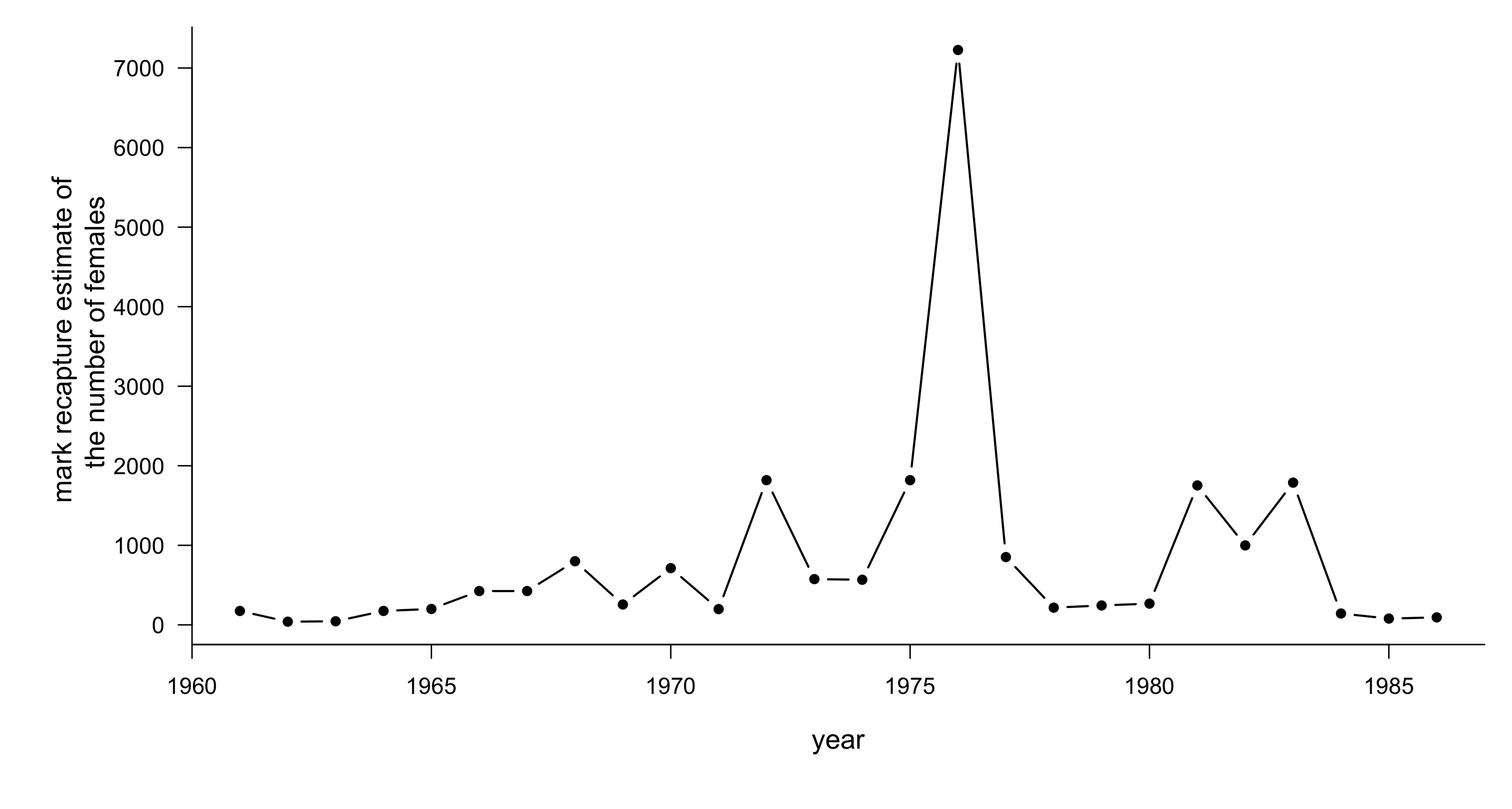
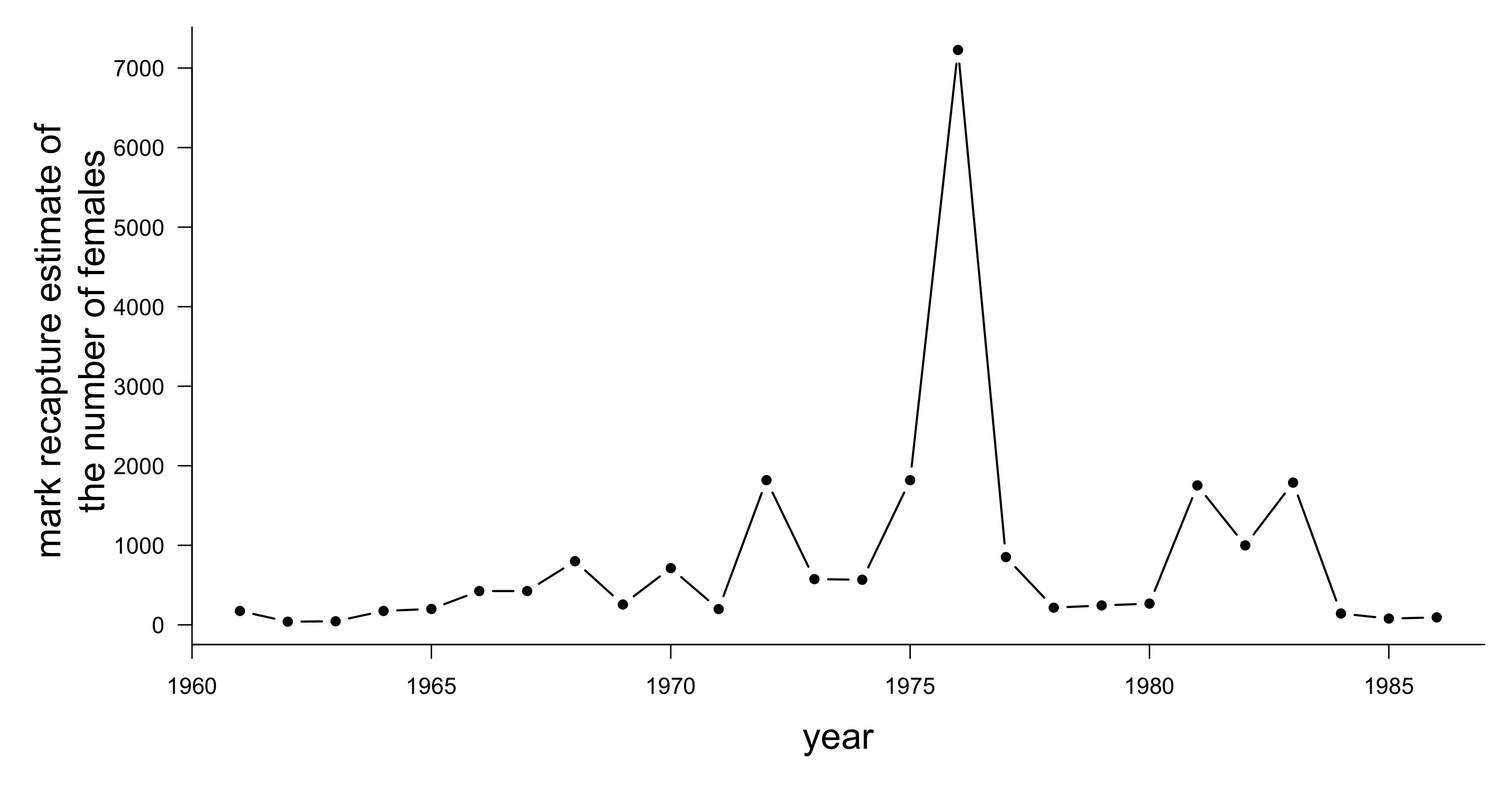
recompile

Changed region(s): [[0.0311, 0.1553, 0.0934, 0.6522], [0.5295, 0.9006, 0.5918, 0.9317]]

diff --git a/teach/BIOL652.html b/teach/BIOL652.html
@@ -1614,15 +1614,24 @@ rates</figcaption>
 Model selection with the Bay Checkerspot data</h4>
 <p>Let’s use some data from Harrison’s (1991) famous paper testing
 whether there were multiple populations or a single population of the
-Bay Checkerspot butterfly. In order to test her hypotheses, Dr. Harrison
-used 20 years of mark recapture data that was used to estimate the
-number of female butterflies in each year.</p>
-<p><img src="baycheckertime.jpeg" style="width:50.0%"
+Bay Checkerspot butterfly.</p>
+<figure>
+<img src="630px-Bay_Checkerspot_f2.jpg" style="width:50.0%"
+alt="Wikipedia Commons CC BY-SA 3.0" />
+<figcaption aria-hidden="true">Wikipedia Commons <a
+href="https://creativecommons.org/licenses/by-sa/3.0/">CC BY-SA
+3.0</a></figcaption>
+</figure>
+<p>In order to test her hypotheses, Dr. Harrison used 20 years of mark
+recapture data that was used to estimate the number of female
+butterflies in each year.</p>
+<figure>
+<img src="baycheckertime.jpeg"
 alt="Estimated number of female Bay Checkerspot butterflies from mark recapture data (data from Harrison at al. 1991)" />
-<img src="630px-Bay_Checkerspot_f2.jpg" style="width:30.0%"
-alt="Wikipedia Commons CC BY-SA 3.0" /></p>
-<p>Figure (side by side figs not showing captions?): Data from Harrison
-(1991). Image Wikipedia Commons (CC BY-SA 3.0)</p>
+<figcaption aria-hidden="true">Estimated number of female Bay
+Checkerspot butterflies from mark recapture data (data from Harrison at
+al. 1991)</figcaption>
+</figure>
 <p>We can use this data to calculate the annual population growth rate
 <span class="math inline">\(\lambda\)</span> as <span
 class="math inline">\(N_{t+1}/N_{t}\)</span>. If we use least squares
@@ -1737,9 +1746,10 @@ our model is simply the normal distribution. We assume independent
 observations, so likelihood is the product of their individual
 probabilities as given by the probability density function.</p>
 <div class="sourceCode" id="cb21"><pre class="sourceCode r"><code class="sourceCode r"><span id="cb21-1"><a href="#cb21-1" aria-hidden="true" tabindex="-1"></a>X <span class="ot">=</span> <span class="fu">c</span>(<span class="dv">0</span>,<span class="dv">4</span>,<span class="dv">5</span>,<span class="dv">7</span>,<span class="dv">8</span>,<span class="dv">2</span>,<span class="dv">2</span>,<span class="dv">4</span>,<span class="dv">4</span>)</span>
-<span id="cb21-2"><a href="#cb21-2" aria-hidden="true" tabindex="-1"></a><span class="co"># the probability density function of the normal distribution for a given mean and variance</span></span>
-<span id="cb21-3"><a href="#cb21-3" aria-hidden="true" tabindex="-1"></a><span class="co"># is given by **dnorm()**</span></span>
-<span id="cb21-4"><a href="#cb21-4" aria-hidden="true" tabindex="-1"></a>like1<span class="ot">=</span><span class="fu">prod</span>(<span class="fu">dnorm</span>(X,<span class="at">mean=</span><span class="dv">5</span>,<span class="at">sd=</span><span class="dv">2</span>))</span></code></pre></div>
+<span id="cb21-2"><a href="#cb21-2" aria-hidden="true" tabindex="-1"></a><span class="co"># the probability density function of the normal </span></span>
+<span id="cb21-3"><a href="#cb21-3" aria-hidden="true" tabindex="-1"></a><span class="co"># distribution for a given mean and variance</span></span>
+<span id="cb21-4"><a href="#cb21-4" aria-hidden="true" tabindex="-1"></a><span class="co"># is given by **dnorm()**</span></span>
+<span id="cb21-5"><a href="#cb21-5" aria-hidden="true" tabindex="-1"></a>like1<span class="ot">=</span><span class="fu">prod</span>(<span class="fu">dnorm</span>(X,<span class="at">mean=</span><span class="dv">5</span>,<span class="at">sd=</span><span class="dv">2</span>))</span></code></pre></div>
 <pre><code> &gt; like1
 [1] 3.133277e-10</code></pre>
 <p>Of course, the value we calculate is not very informative, we need to
@@ -1828,9 +1838,11 @@ to find the best mean and variance for our data.</p>
 <span id="cb28-4"><a href="#cb28-4" aria-hidden="true" tabindex="-1"></a>  }</span>
 <span id="cb28-5"><a href="#cb28-5" aria-hidden="true" tabindex="-1"></a>          </span>
 <span id="cb28-6"><a href="#cb28-6" aria-hidden="true" tabindex="-1"></a>mlest<span class="ot">=</span><span class="fu">optim</span>(<span class="at">par=</span><span class="fu">c</span>(<span class="dv">1</span>,<span class="dv">1</span>),normL) </span>
-<span id="cb28-7"><a href="#cb28-7" aria-hidden="true" tabindex="-1"></a><span class="co">#par argument is the starting search values for par[1], and par[2], so our function is the same as before, just written in a way that we can use it with optim()</span></span>
-<span id="cb28-8"><a href="#cb28-8" aria-hidden="true" tabindex="-1"></a>mlest<span class="sc">$</span>par</span>
-<span id="cb28-9"><a href="#cb28-9" aria-hidden="true" tabindex="-1"></a>mlest<span class="sc">$</span>value</span></code></pre></div>
+<span id="cb28-7"><a href="#cb28-7" aria-hidden="true" tabindex="-1"></a><span class="co">#par argument is the starting search values for par[1], </span></span>
+<span id="cb28-8"><a href="#cb28-8" aria-hidden="true" tabindex="-1"></a><span class="co"># and par[2], so our function is the same as before, </span></span>
+<span id="cb28-9"><a href="#cb28-9" aria-hidden="true" tabindex="-1"></a><span class="co"># just written in a way that we can use it with optim()</span></span>
+<span id="cb28-10"><a href="#cb28-10" aria-hidden="true" tabindex="-1"></a>mlest<span class="sc">$</span>par</span>
+<span id="cb28-11"><a href="#cb28-11" aria-hidden="true" tabindex="-1"></a>mlest<span class="sc">$</span>value</span></code></pre></div>
 <p>We can see that the <strong>optim()</strong> function gives a bit
 more precision, and tells us that the maximum likelihood (minimum
 negative log-likelihood) is found for parameter values of <span
@@ -1846,15 +1858,20 @@ time, by setting the expected value of each observation using the
 equation for a line, with normally distributed errors, where our x is
 the number of female Bay Checkerspot butterflies, and y is the per
 capita growth rate.</p>
-<div class="sourceCode" id="cb29"><pre class="sourceCode r"><code class="sourceCode r"><span id="cb29-1"><a href="#cb29-1" aria-hidden="true" tabindex="-1"></a>percap<span class="ot">=</span><span class="fu">c</span>(<span class="fl">0.229</span>,<span class="fl">1.125</span>,<span class="fl">3.889</span>,<span class="fl">1.143</span>,<span class="fl">2.125</span>,<span class="fl">1.000</span>,<span class="fl">1.882</span>,<span class="fl">0.320</span>,<span class="fl">2.785</span>,<span class="fl">0.278</span>,<span class="fl">9.187</span>,<span class="fl">0.316</span>,<span class="fl">0.986</span>,<span class="fl">3.208</span>,<span class="fl">3.973</span>,<span class="fl">0.254</span>,<span class="fl">1.130</span>,<span class="fl">1.094</span>,<span class="fl">6.566</span>,<span class="fl">0.570</span>,<span class="fl">1.790</span>,<span class="fl">0.080</span>,<span class="fl">0.552</span>,<span class="fl">1.190</span>)</span>
-<span id="cb29-2"><a href="#cb29-2" aria-hidden="true" tabindex="-1"></a></span>
-<span id="cb29-3"><a href="#cb29-3" aria-hidden="true" tabindex="-1"></a>females<span class="ot">=</span><span class="fu">c</span>(<span class="dv">175</span>,<span class="dv">40</span>,<span class="dv">45</span>,<span class="dv">175</span>,<span class="dv">200</span>,<span class="dv">425</span>,<span class="dv">425</span>,<span class="dv">800</span>,<span class="dv">256</span>,<span class="dv">713</span>,<span class="dv">198</span>,<span class="dv">1819</span>,<span class="dv">575</span>,<span class="dv">567</span>,<span class="dv">1819</span>,<span class="dv">852</span>,<span class="dv">216</span>,<span class="dv">244</span>,<span class="dv">267</span>,<span class="dv">1753</span>,<span class="dv">999</span>,<span class="dv">1788</span>,<span class="dv">143</span>,<span class="dv">79</span>)</span>
+<div class="sourceCode" id="cb29"><pre class="sourceCode r"><code class="sourceCode r"><span id="cb29-1"><a href="#cb29-1" aria-hidden="true" tabindex="-1"></a>percap<span class="ot">=</span><span class="fu">c</span>(<span class="fl">0.229</span>,<span class="fl">1.125</span>,<span class="fl">3.889</span>,<span class="fl">1.143</span>,<span class="fl">2.125</span>,<span class="fl">1.000</span>,<span class="fl">1.882</span>,</span>
+<span id="cb29-2"><a href="#cb29-2" aria-hidden="true" tabindex="-1"></a>        <span class="fl">0.320</span>,<span class="fl">2.785</span>,<span class="fl">0.278</span>,<span class="fl">9.187</span>,<span class="fl">0.316</span>,<span class="fl">0.986</span>,<span class="fl">3.208</span>,<span class="fl">3.973</span>,</span>
+<span id="cb29-3"><a href="#cb29-3" aria-hidden="true" tabindex="-1"></a>        <span class="fl">0.254</span>,<span class="fl">1.130</span>,<span class="fl">1.094</span>,<span class="fl">6.566</span>,<span class="fl">0.570</span>,<span class="fl">1.790</span>,<span class="fl">0.080</span>,<span class="fl">0.552</span>,<span class="fl">1.190</span>)</span>
 <span id="cb29-4"><a href="#cb29-4" aria-hidden="true" tabindex="-1"></a></span>
-<span id="cb29-5"><a href="#cb29-5" aria-hidden="true" tabindex="-1"></a>normReg <span class="ot">=</span> <span class="cf">function</span>(par) {</span>
-<span id="cb29-6"><a href="#cb29-6" aria-hidden="true" tabindex="-1"></a>          y.pred <span class="ot">=</span> par[<span class="dv">1</span>] <span class="sc">+</span> par[<span class="dv">2</span>]<span class="sc">*</span>females</span>
-<span id="cb29-7"><a href="#cb29-7" aria-hidden="true" tabindex="-1"></a>          <span class="sc">-</span><span class="fu">sum</span>(<span class="fu">dnorm</span>(<span class="fu">log</span>(percap),<span class="at">mean=</span>y.pred,<span class="at">sd=</span><span class="fu">sqrt</span>(par[<span class="dv">3</span>]),<span class="at">log=</span>T)) }</span>
+<span id="cb29-5"><a href="#cb29-5" aria-hidden="true" tabindex="-1"></a>females<span class="ot">=</span><span class="fu">c</span>(<span class="dv">175</span>,<span class="dv">40</span>,<span class="dv">45</span>,<span class="dv">175</span>,<span class="dv">200</span>,<span class="dv">425</span>,<span class="dv">425</span>,<span class="dv">800</span>,<span class="dv">256</span>,<span class="dv">713</span>,</span>
+<span id="cb29-6"><a href="#cb29-6" aria-hidden="true" tabindex="-1"></a>          <span class="dv">198</span>,<span class="dv">1819</span>,<span class="dv">575</span>,<span class="dv">567</span>,<span class="dv">1819</span>,<span class="dv">852</span>,<span class="dv">216</span>,<span class="dv">244</span>,<span class="dv">267</span>,</span>
+<span id="cb29-7"><a href="#cb29-7" aria-hidden="true" tabindex="-1"></a>          <span class="dv">1753</span>,<span class="dv">999</span>,<span class="dv">1788</span>,<span class="dv">143</span>,<span class="dv">79</span>)</span>
 <span id="cb29-8"><a href="#cb29-8" aria-hidden="true" tabindex="-1"></a></span>
-<span id="cb29-9"><a href="#cb29-9" aria-hidden="true" tabindex="-1"></a>mlest<span class="ot">=</span><span class="fu">optim</span>(<span class="at">par=</span><span class="fu">c</span>(<span class="dv">0</span>,<span class="dv">1</span><span class="sc">/</span><span class="dv">100</span>,<span class="dv">1</span>),normReg) <span class="co">#par argument is the starting search values for par[1:3] </span></span></code></pre></div>
+<span id="cb29-9"><a href="#cb29-9" aria-hidden="true" tabindex="-1"></a>normReg <span class="ot">=</span> <span class="cf">function</span>(par) {</span>
+<span id="cb29-10"><a href="#cb29-10" aria-hidden="true" tabindex="-1"></a>          y.pred <span class="ot">=</span> par[<span class="dv">1</span>] <span class="sc">+</span> par[<span class="dv">2</span>]<span class="sc">*</span>females</span>
+<span id="cb29-11"><a href="#cb29-11" aria-hidden="true" tabindex="-1"></a>          <span class="sc">-</span><span class="fu">sum</span>(<span class="fu">dnorm</span>(<span class="fu">log</span>(percap),<span class="at">mean=</span>y.pred,<span class="at">sd=</span><span class="fu">sqrt</span>(par[<span class="dv">3</span>]),<span class="at">log=</span>T)) }</span>
+<span id="cb29-12"><a href="#cb29-12" aria-hidden="true" tabindex="-1"></a></span>
+<span id="cb29-13"><a href="#cb29-13" aria-hidden="true" tabindex="-1"></a>mlest<span class="ot">=</span><span class="fu">optim</span>(<span class="at">par=</span><span class="fu">c</span>(<span class="dv">0</span>,<span class="dv">1</span><span class="sc">/</span><span class="dv">100</span>,<span class="dv">1</span>),normReg) </span>
+<span id="cb29-14"><a href="#cb29-14" aria-hidden="true" tabindex="-1"></a><span class="co">#par argument is the starting search values for par[1:3] </span></span></code></pre></div>
 <pre><code>&gt; mlest$par[1:2]
 [1]  0.5244783529 -0.0007595998</code></pre>
 <p>Reassuringly, we find that our estimates intercept (par[1]) and slope
@@ -1870,42 +1887,50 @@ class="math inline">\(log(N_{t+1}/N_t)=r\)</span></p>
 class="math inline">\(log(N_{t+1}/N_t)=r(1-N_t/K)\)</span></p>
 <p>Theta logistic model: <span
 class="math inline">\(log(N_{t+1}/N_t)=r(1-(N_t/K)^\theta)\)</span></p>
-<div class="sourceCode" id="cb31"><pre class="sourceCode r"><code class="sourceCode r"><span id="cb31-1"><a href="#cb31-1" aria-hidden="true" tabindex="-1"></a>percap<span class="ot">=</span><span class="fu">c</span>(<span class="fl">0.229</span>,<span class="fl">1.125</span>, <span class="fl">3.889</span>,<span class="fl">1.143</span>,<span class="fl">2.125</span>, <span class="fl">1.000</span>,<span class="fl">1.882</span>,<span class="fl">0.320</span>,<span class="fl">2.785</span>, <span class="fl">0.278</span>,<span class="fl">9.187</span>,<span class="fl">0.316</span>,<span class="fl">0.986</span>,<span class="fl">3.208</span>,<span class="fl">3.973</span>,<span class="fl">0.254</span>,<span class="fl">1.130</span>,<span class="fl">1.094</span>,<span class="fl">6.566</span>, <span class="fl">0.570</span>, <span class="fl">1.790</span>,<span class="fl">0.080</span>,<span class="fl">0.552</span>,<span class="fl">1.190</span>)</span>
-<span id="cb31-2"><a href="#cb31-2" aria-hidden="true" tabindex="-1"></a></span>
-<span id="cb31-3"><a href="#cb31-3" aria-hidden="true" tabindex="-1"></a>females<span class="ot">=</span><span class="fu">c</span>(<span class="dv">175</span>,<span class="dv">40</span>,<span class="dv">45</span>,<span class="dv">175</span>,<span class="dv">200</span>,<span class="dv">425</span>,<span class="dv">425</span>,<span class="dv">800</span>,<span class="dv">256</span>,<span class="dv">713</span>,<span class="dv">198</span>,<span class="dv">1819</span>,<span class="dv">575</span>,<span class="dv">567</span>,<span class="dv">1819</span>,<span class="dv">852</span>,  <span class="dv">216</span>,<span class="dv">244</span>,<span class="dv">267</span>,<span class="dv">1753</span>,<span class="dv">999</span>,<span class="dv">1788</span>,<span class="dv">143</span>,<span class="dv">79</span>)</span>
+<div class="sourceCode" id="cb31"><pre class="sourceCode r"><code class="sourceCode r"><span id="cb31-1"><a href="#cb31-1" aria-hidden="true" tabindex="-1"></a>percap<span class="ot">=</span><span class="fu">c</span>(<span class="fl">0.229</span>,<span class="fl">1.125</span>, <span class="fl">3.889</span>,<span class="fl">1.143</span>,<span class="fl">2.125</span>, <span class="fl">1.000</span>,<span class="fl">1.882</span>,<span class="fl">0.320</span>,<span class="fl">2.785</span>,</span>
+<span id="cb31-2"><a href="#cb31-2" aria-hidden="true" tabindex="-1"></a>         <span class="fl">0.278</span>,<span class="fl">9.187</span>,<span class="fl">0.316</span>,<span class="fl">0.986</span>,<span class="fl">3.208</span>,<span class="fl">3.973</span>,<span class="fl">0.254</span>,<span class="fl">1.130</span>,<span class="fl">1.094</span>,</span>
+<span id="cb31-3"><a href="#cb31-3" aria-hidden="true" tabindex="-1"></a>         <span class="fl">6.566</span>, <span class="fl">0.570</span>, <span class="fl">1.790</span>,<span class="fl">0.080</span>,<span class="fl">0.552</span>,<span class="fl">1.190</span>)</span>
 <span id="cb31-4"><a href="#cb31-4" aria-hidden="true" tabindex="-1"></a></span>
-<span id="cb31-5"><a href="#cb31-5" aria-hidden="true" tabindex="-1"></a><span class="co"># function for logistic model with normally distributed errors</span></span>
-<span id="cb31-6"><a href="#cb31-6" aria-hidden="true" tabindex="-1"></a>normReg <span class="ot">=</span> <span class="cf">function</span>(par) {</span>
-<span id="cb31-7"><a href="#cb31-7" aria-hidden="true" tabindex="-1"></a>          y.pred <span class="ot">=</span> par[<span class="dv">1</span>] <span class="sc">+</span> par[<span class="dv">2</span>]<span class="sc">*</span>females</span>
-<span id="cb31-8"><a href="#cb31-8" aria-hidden="true" tabindex="-1"></a>          <span class="sc">-</span><span class="fu">sum</span>(<span class="fu">dnorm</span>(<span class="fu">log</span>(percap),<span class="at">mean=</span>y.pred,<span class="at">sd=</span><span class="fu">sqrt</span>(par[<span class="dv">3</span>]),<span class="at">log=</span>T)) }</span>
-<span id="cb31-9"><a href="#cb31-9" aria-hidden="true" tabindex="-1"></a></span>
-<span id="cb31-10"><a href="#cb31-10" aria-hidden="true" tabindex="-1"></a>mle.normReg<span class="ot">=</span><span class="fu">optim</span>(<span class="at">par=</span><span class="fu">c</span>(<span class="dv">0</span>,<span class="dv">1</span><span class="sc">/</span><span class="dv">100</span>,<span class="dv">1</span>),normReg) <span class="co">#par argument is the starting search values</span></span>
-<span id="cb31-11"><a href="#cb31-11" aria-hidden="true" tabindex="-1"></a></span>
-<span id="cb31-12"><a href="#cb31-12" aria-hidden="true" tabindex="-1"></a><span class="co"># plot data and model predictions at mle</span></span>
-<span id="cb31-13"><a href="#cb31-13" aria-hidden="true" tabindex="-1"></a><span class="fu">plot</span>(<span class="fu">log</span>(percap)<span class="sc">~</span>females, <span class="at">type=</span><span class="st">&quot;p&quot;</span>, <span class="at">pch=</span><span class="dv">16</span>, <span class="at">lwd=</span><span class="fl">1.5</span>, <span class="at">bty=</span><span class="st">&quot;l&quot;</span>, <span class="at">cex.lab=</span><span class="fl">1.2</span>,</span>
-<span id="cb31-14"><a href="#cb31-14" aria-hidden="true" tabindex="-1"></a>     <span class="at">ylab=</span><span class="fu">expression</span>(ln<span class="sc">~</span>lambda),<span class="at">las=</span><span class="dv">1</span>,</span>
-<span id="cb31-15"><a href="#cb31-15" aria-hidden="true" tabindex="-1"></a>     <span class="at">xlab=</span><span class="st">&quot;number of females&quot;</span>)</span>
-<span id="cb31-16"><a href="#cb31-16" aria-hidden="true" tabindex="-1"></a><span class="fu">abline</span>(<span class="at">a=</span>mle.normReg<span class="sc">$</span>par[<span class="dv">1</span>], <span class="at">b=</span>mle.normReg<span class="sc">$</span>par[<span class="dv">2</span>],<span class="at">col=</span><span class="st">&quot;red&quot;</span>)</span>
-<span id="cb31-17"><a href="#cb31-17" aria-hidden="true" tabindex="-1"></a></span>
-<span id="cb31-18"><a href="#cb31-18" aria-hidden="true" tabindex="-1"></a><span class="co"># function for density independent model</span></span>
-<span id="cb31-19"><a href="#cb31-19" aria-hidden="true" tabindex="-1"></a>normDI <span class="ot">=</span> <span class="cf">function</span>(par) {</span>
-<span id="cb31-20"><a href="#cb31-20" aria-hidden="true" tabindex="-1"></a>          <span class="sc">-</span><span class="fu">sum</span>(<span class="fu">dnorm</span>(<span class="fu">log</span>(percap),<span class="at">mean=</span><span class="fu">mean</span>(<span class="fu">log</span>(percap)),<span class="at">sd=</span><span class="fu">sqrt</span>(par[<span class="dv">2</span>]),<span class="at">log=</span>T)) }</span>
-<span id="cb31-21"><a href="#cb31-21" aria-hidden="true" tabindex="-1"></a>mle.normDI<span class="ot">=</span><span class="fu">optim</span>(<span class="at">par=</span><span class="fu">c</span>(<span class="dv">1</span><span class="sc">/</span><span class="dv">100</span>,<span class="dv">1</span>),normC) <span class="co">#par argument is the starting search values </span></span>
+<span id="cb31-5"><a href="#cb31-5" aria-hidden="true" tabindex="-1"></a>females<span class="ot">=</span><span class="fu">c</span>(<span class="dv">175</span>,<span class="dv">40</span>,<span class="dv">45</span>,<span class="dv">175</span>,<span class="dv">200</span>,<span class="dv">425</span>,<span class="dv">425</span>,<span class="dv">800</span>,<span class="dv">256</span>,<span class="dv">713</span>,<span class="dv">198</span>,<span class="dv">1819</span>,<span class="dv">575</span>,</span>
+<span id="cb31-6"><a href="#cb31-6" aria-hidden="true" tabindex="-1"></a>          <span class="dv">567</span>,<span class="dv">1819</span>,<span class="dv">852</span>,  <span class="dv">216</span>,<span class="dv">244</span>,<span class="dv">267</span>,<span class="dv">1753</span>,<span class="dv">999</span>,<span class="dv">1788</span>,<span class="dv">143</span>,<span class="dv">79</span>)</span>
+<span id="cb31-7"><a href="#cb31-7" aria-hidden="true" tabindex="-1"></a></span>
+<span id="cb31-8"><a href="#cb31-8" aria-hidden="true" tabindex="-1"></a><span class="co"># function for logistic model with normally distributed errors</span></span>
+<span id="cb31-9"><a href="#cb31-9" aria-hidden="true" tabindex="-1"></a>normReg <span class="ot">=</span> <span class="cf">function</span>(par) {</span>
+<span id="cb31-10"><a href="#cb31-10" aria-hidden="true" tabindex="-1"></a>          y.pred <span class="ot">=</span> par[<span class="dv">1</span>] <span class="sc">+</span> par[<span class="dv">2</span>]<span class="sc">*</span>females</span>
+<span id="cb31-11"><a href="#cb31-11" aria-hidden="true" tabindex="-1"></a>          <span class="sc">-</span><span class="fu">sum</span>(<span class="fu">dnorm</span>(<span class="fu">log</span>(percap),<span class="at">mean=</span>y.pred,<span class="at">sd=</span><span class="fu">sqrt</span>(par[<span class="dv">3</span>]),<span class="at">log=</span>T)) }</span>
+<span id="cb31-12"><a href="#cb31-12" aria-hidden="true" tabindex="-1"></a></span>
+<span id="cb31-13"><a href="#cb31-13" aria-hidden="true" tabindex="-1"></a>mle.normReg<span class="ot">=</span><span class="fu">optim</span>(<span class="at">par=</span><span class="fu">c</span>(<span class="dv">0</span>,<span class="dv">1</span><span class="sc">/</span><span class="dv">100</span>,<span class="dv">1</span>),normReg) </span>
+<span id="cb31-14"><a href="#cb31-14" aria-hidden="true" tabindex="-1"></a><span class="co">#par argument is the starting search values</span></span>
+<span id="cb31-15"><a href="#cb31-15" aria-hidden="true" tabindex="-1"></a></span>
+<span id="cb31-16"><a href="#cb31-16" aria-hidden="true" tabindex="-1"></a><span class="co"># plot data and model predictions at mle</span></span>
+<span id="cb31-17"><a href="#cb31-17" aria-hidden="true" tabindex="-1"></a><span class="fu">plot</span>(<span class="fu">log</span>(percap)<span class="sc">~</span>females, <span class="at">type=</span><span class="st">&quot;p&quot;</span>, <span class="at">pch=</span><span class="dv">16</span>, <span class="at">lwd=</span><span class="fl">1.5</span>, <span class="at">bty=</span><span class="st">&quot;l&quot;</span>, </span>
+<span id="cb31-18"><a href="#cb31-18" aria-hidden="true" tabindex="-1"></a>     <span class="at">cex.lab=</span><span class="fl">1.2</span>,</span>
+<span id="cb31-19"><a href="#cb31-19" aria-hidden="true" tabindex="-1"></a>     <span class="at">ylab=</span><span class="fu">expression</span>(ln<span class="sc">~</span>lambda),<span class="at">las=</span><span class="dv">1</span>,</span>
+<span id="cb31-20"><a href="#cb31-20" aria-hidden="true" tabindex="-1"></a>     <span class="at">xlab=</span><span class="st">&quot;number of females&quot;</span>)</span>
+<span id="cb31-21"><a href="#cb31-21" aria-hidden="true" tabindex="-1"></a><span class="fu">abline</span>(<span class="at">a=</span>mle.normReg<span class="sc">$</span>par[<span class="dv">1</span>], <span class="at">b=</span>mle.normReg<span class="sc">$</span>par[<span class="dv">2</span>],<span class="at">col=</span><span class="st">&quot;red&quot;</span>)</span>
 <span id="cb31-22"><a href="#cb31-22" aria-hidden="true" tabindex="-1"></a></span>
-<span id="cb31-23"><a href="#cb31-23" aria-hidden="true" tabindex="-1"></a><span class="co"># plot predictions</span></span>
-<span id="cb31-24"><a href="#cb31-24" aria-hidden="true" tabindex="-1"></a><span class="fu">abline</span>(<span class="at">h=</span>mle.normDI<span class="sc">$</span>par[<span class="dv">1</span>],<span class="at">lwd=</span><span class="fl">1.5</span> )</span>
-<span id="cb31-25"><a href="#cb31-25" aria-hidden="true" tabindex="-1"></a></span>
-<span id="cb31-26"><a href="#cb31-26" aria-hidden="true" tabindex="-1"></a><span class="co"># function for theta-logistic model</span></span>
-<span id="cb31-27"><a href="#cb31-27" aria-hidden="true" tabindex="-1"></a>normTh <span class="ot">=</span> <span class="cf">function</span>(par) {</span>
-<span id="cb31-28"><a href="#cb31-28" aria-hidden="true" tabindex="-1"></a>          y.pred <span class="ot">=</span> par[<span class="dv">1</span>] <span class="sc">+</span> par[<span class="dv">2</span>]<span class="sc">*</span>(females)<span class="sc">^</span>par[<span class="dv">4</span>]</span>
-<span id="cb31-29"><a href="#cb31-29" aria-hidden="true" tabindex="-1"></a>          <span class="sc">-</span><span class="fu">sum</span>(<span class="fu">dnorm</span>(<span class="fu">log</span>(percap),<span class="at">mean=</span>y.pred,<span class="at">sd=</span><span class="fu">sqrt</span>(par[<span class="dv">3</span>]),<span class="at">log=</span>T)) }</span>
-<span id="cb31-30"><a href="#cb31-30" aria-hidden="true" tabindex="-1"></a>mle.normTh<span class="ot">=</span><span class="fu">optim</span>(<span class="at">par=</span><span class="fu">c</span>(<span class="dv">0</span>,<span class="dv">1</span><span class="sc">/</span><span class="dv">100</span>,<span class="dv">1</span>,<span class="dv">1</span>),normTh) <span class="co">#par argument is the starting search values </span></span>
-<span id="cb31-31"><a href="#cb31-31" aria-hidden="true" tabindex="-1"></a></span>
-<span id="cb31-32"><a href="#cb31-32" aria-hidden="true" tabindex="-1"></a><span class="co"># plot predictions and legend</span></span>
-<span id="cb31-33"><a href="#cb31-33" aria-hidden="true" tabindex="-1"></a><span class="fu">curve</span>(mle.normTh<span class="sc">$</span>par[<span class="dv">1</span>]<span class="sc">+</span>mle.normTh<span class="sc">$</span>par[<span class="dv">2</span>]<span class="sc">*</span>(x)<span class="sc">^</span>mle.normTh<span class="sc">$</span>par[<span class="dv">4</span>], <span class="at">from=</span><span class="dv">0</span>, </span>
-<span id="cb31-34"><a href="#cb31-34" aria-hidden="true" tabindex="-1"></a>      <span class="at">to=</span><span class="dv">4000</span>,<span class="at">add=</span>T, <span class="at">lwd=</span><span class="fl">1.5</span>, <span class="at">col=</span><span class="st">&quot;blue&quot;</span>)</span>
-<span id="cb31-35"><a href="#cb31-35" aria-hidden="true" tabindex="-1"></a><span class="fu">legend</span>(<span class="st">&quot;top&quot;</span>, <span class="at">legend=</span><span class="fu">c</span>(<span class="st">&quot;exponential&quot;</span>, <span class="st">&quot;logistic&quot;</span>,<span class="st">&quot;theta-logistic&quot;</span> ),</span>
-<span id="cb31-36"><a href="#cb31-36" aria-hidden="true" tabindex="-1"></a>       <span class="at">col=</span><span class="fu">c</span>(<span class="dv">1</span>,<span class="dv">2</span>,<span class="dv">4</span>), <span class="at">lty=</span><span class="dv">1</span>, <span class="at">lwd=</span><span class="dv">2</span>, <span class="at">bty=</span><span class="st">&quot;n&quot;</span>)</span></code></pre></div>
+<span id="cb31-23"><a href="#cb31-23" aria-hidden="true" tabindex="-1"></a><span class="co"># function for density independent model</span></span>
+<span id="cb31-24"><a href="#cb31-24" aria-hidden="true" tabindex="-1"></a>normDI <span class="ot">=</span> <span class="cf">function</span>(par) {</span>
+<span id="cb31-25"><a href="#cb31-25" aria-hidden="true" tabindex="-1"></a>          <span class="sc">-</span><span class="fu">sum</span>(<span class="fu">dnorm</span>(<span class="fu">log</span>(percap),<span class="at">mean=</span><span class="fu">mean</span>(<span class="fu">log</span>(percap)),</span>
+<span id="cb31-26"><a href="#cb31-26" aria-hidden="true" tabindex="-1"></a>                     <span class="at">sd=</span><span class="fu">sqrt</span>(par[<span class="dv">2</span>]),<span class="at">log=</span>T)) }</span>
+<span id="cb31-27"><a href="#cb31-27" aria-hidden="true" tabindex="-1"></a>mle.normDI<span class="ot">=</span><span class="fu">optim</span>(<span class="at">par=</span><span class="fu">c</span>(<span class="dv">1</span><span class="sc">/</span><span class="dv">100</span>,<span class="dv">1</span>),normC) </span>
+<span id="cb31-28"><a href="#cb31-28" aria-hidden="true" tabindex="-1"></a><span class="co">#par argument is the starting search values </span></span>
+<span id="cb31-29"><a href="#cb31-29" aria-hidden="true" tabindex="-1"></a></span>
+<span id="cb31-30"><a href="#cb31-30" aria-hidden="true" tabindex="-1"></a><span class="co"># plot predictions</span></span>
+<span id="cb31-31"><a href="#cb31-31" aria-hidden="true" tabindex="-1"></a><span class="fu">abline</span>(<span class="at">h=</span>mle.normDI<span class="sc">$</span>par[<span class="dv">1</span>],<span class="at">lwd=</span><span class="fl">1.5</span> )</span>
+<span id="cb31-32"><a href="#cb31-32" aria-hidden="true" tabindex="-1"></a></span>
+<span id="cb31-33"><a href="#cb31-33" aria-hidden="true" tabindex="-1"></a><span class="co"># function for theta-logistic model</span></span>
+<span id="cb31-34"><a href="#cb31-34" aria-hidden="true" tabindex="-1"></a>normTh <span class="ot">=</span> <span class="cf">function</span>(par) {</span>
+<span id="cb31-35"><a href="#cb31-35" aria-hidden="true" tabindex="-1"></a>          y.pred <span class="ot">=</span> par[<span class="dv">1</span>] <span class="sc">+</span> par[<span class="dv">2</span>]<span class="sc">*</span>(females)<span class="sc">^</span>par[<span class="dv">4</span>]</span>
+<span id="cb31-36"><a href="#cb31-36" aria-hidden="true" tabindex="-1"></a>          <span class="sc">-</span><span class="fu">sum</span>(<span class="fu">dnorm</span>(<span class="fu">log</span>(percap),<span class="at">mean=</span>y.pred,<span class="at">sd=</span><span class="fu">sqrt</span>(par[<span class="dv">3</span>]),<span class="at">log=</span>T)) }</span>
+<span id="cb31-37"><a href="#cb31-37" aria-hidden="true" tabindex="-1"></a>mle.normTh<span class="ot">=</span><span class="fu">optim</span>(<span class="at">par=</span><span class="fu">c</span>(<span class="dv">0</span>,<span class="dv">1</span><span class="sc">/</span><span class="dv">100</span>,<span class="dv">1</span>,<span class="dv">1</span>),normTh) </span>
+<span id="cb31-38"><a href="#cb31-38" aria-hidden="true" tabindex="-1"></a><span class="co">#par argument is the starting search values </span></span>
+<span id="cb31-39"><a href="#cb31-39" aria-hidden="true" tabindex="-1"></a></span>
+<span id="cb31-40"><a href="#cb31-40" aria-hidden="true" tabindex="-1"></a><span class="co"># plot predictions and legend</span></span>
+<span id="cb31-41"><a href="#cb31-41" aria-hidden="true" tabindex="-1"></a><span class="fu">curve</span>(mle.normTh<span class="sc">$</span>par[<span class="dv">1</span>]<span class="sc">+</span>mle.normTh<span class="sc">$</span>par[<span class="dv">2</span>]<span class="sc">*</span>(x)<span class="sc">^</span>mle.normTh<span class="sc">$</span>par[<span class="dv">4</span>], <span class="at">from=</span><span class="dv">0</span>, </span>
+<span id="cb31-42"><a href="#cb31-42" aria-hidden="true" tabindex="-1"></a>      <span class="at">to=</span><span class="dv">4000</span>,<span class="at">add=</span>T, <span class="at">lwd=</span><span class="fl">1.5</span>, <span class="at">col=</span><span class="st">&quot;blue&quot;</span>)</span>
+<span id="cb31-43"><a href="#cb31-43" aria-hidden="true" tabindex="-1"></a><span class="fu">legend</span>(<span class="st">&quot;top&quot;</span>, <span class="at">legend=</span><span class="fu">c</span>(<span class="st">&quot;exponential&quot;</span>, <span class="st">&quot;logistic&quot;</span>,<span class="st">&quot;theta-logistic&quot;</span> ),</span>
+<span id="cb31-44"><a href="#cb31-44" aria-hidden="true" tabindex="-1"></a>       <span class="at">col=</span><span class="fu">c</span>(<span class="dv">1</span>,<span class="dv">2</span>,<span class="dv">4</span>), <span class="at">lty=</span><span class="dv">1</span>, <span class="at">lwd=</span><span class="dv">2</span>, <span class="at">bty=</span><span class="st">&quot;n&quot;</span>)</span></code></pre></div>
 <figure>
 <img src="3modelfits.jpeg" style="width:80.0%"
 alt="Fits of the three different models to data from Harrison, 1991" />
@@ -1948,11 +1973,12 @@ models applied to Harrison’s (1991) Bay Checkerspot data</caption>
 <p>So perhaps we should select the theta-logistic model? After all it
 <strong>does</strong> have the greatest likelihood. However, there is
 another point to consider. The theta-logistic model has four parameters
-(r, k, $$, and $$, the variance of the normal distribution of errors),
-while the logistic model has 3. We note that if a model has n data
-points and n parameters (one for each data point), then the residual
-variance will be ZERO. Would a model with n parameters then be a better
-model, since it explains all the variance?</p>
+(r, k, <span class="math inline">\(\theta\)</span>, and <span
+class="math inline">\(\sigma\)</span>, the variance of the normal
+distribution of errors), while the logistic model has 3. We note that if
+a model has n data points and n parameters (one for each data point),
+then the residual variance will be ZERO. Would a model with n parameters
+then be a better model, since it explains all the variance?</p>
 <p>More generally, is a model with more parameters, functions, entities,
 etc. more likely to be “true”? Where we use the word “true” as more
 explanatory, accurate, predictive, representative of reality?</p>

diff --git a/teach/652modelselecttext.md b/teach/652modelselecttext.md
@@ -5,13 +5,13 @@ We have introduced several models to describe how population size may change ove
 ![Examples of functions that describe the effects of different types density dependence on per capita growth rates ](densdepfunc.png){width=80%}
 
 #### Example: Model selection with the Bay Checkerspot data
-Let's use some data from Harrison's (1991) famous paper testing whether there were multiple populations or a single population of the Bay Checkerspot butterfly. In order to test her hypotheses, Dr. Harrison used 20 years of mark recapture data that was used to estimate the number of female butterflies in each year.
+Let's use some data from Harrison's (1991) famous paper testing whether there were multiple populations or a single population of the Bay Checkerspot butterfly. 
 
-![Estimated number of female Bay Checkerspot butterflies from mark recapture data (data from Harrison at al. 1991)](baycheckertime.jpeg){ width=50% } 
-![Wikipedia Commons [CC BY-SA 3.0](https://creativecommons.org/licenses/by-sa/3.0/)](630px-Bay_Checkerspot_f2.jpg){ width=30% }
+![Wikipedia Commons [CC BY-SA 3.0](https://creativecommons.org/licenses/by-sa/3.0/)](630px-Bay_Checkerspot_f2.jpg){ width=50% }
 
-Figure (side by side figs not showing captions?): Data from Harrison (1991). Image Wikipedia Commons (CC BY-SA 3.0)
+In order to test her hypotheses, Dr. Harrison used 20 years of mark recapture data that was used to estimate the number of female butterflies in each year.
 
+![Estimated number of female Bay Checkerspot butterflies from mark recapture data (data from Harrison at al. 1991)](baycheckertime.jpeg)
 
 We can use this data to calculate the annual population growth rate $\lambda$ as $N_{t+1}/N_{t}$. If we use least squares regression to predict the natural logarithm of estimated annual growth rates from the number of females, we find some indication there is a negative slope, even if we remove a large outlier. 
 
@@ -55,7 +55,8 @@ Let's try this out for a simple problem. We have been given a set of data, and w
 
 ``` R   		
 X = c(0,4,5,7,8,2,2,4,4)
-# the probability density function of the normal distribution for a given mean and variance
+# the probability density function of the normal 
+# distribution for a given mean and variance
 # is given by **dnorm()**
 like1=prod(dnorm(X,mean=5,sd=2))
 ```
@@ -124,7 +125,9 @@ normL = function(par) {
   }
           
 mlest=optim(par=c(1,1),normL) 
-#par argument is the starting search values for par[1], and par[2], so our function is the same as before, just written in a way that we can use it with optim()
+#par argument is the starting search values for par[1], 
+# and par[2], so our function is the same as before, 
+# just written in a way that we can use it with optim()
 mlest$par
 mlest$value
 ```
@@ -137,15 +140,20 @@ Let's go back to our original problem with the Harrison data (1991), and use max
 Just like we did for find the mean and variance of a set of data, we can find the slope and intercept of a linear regression model, this time, by setting the expected value of each observation using the equation for a line, with normally distributed errors, where our x is the number of female Bay Checkerspot butterflies, and y is the per capita growth rate.
 
 ``` R
-percap=c(0.229,1.125,3.889,1.143,2.125,1.000,1.882,0.320,2.785,0.278,9.187,0.316,0.986,3.208,3.973,0.254,1.130,1.094,6.566,0.570,1.790,0.080,0.552,1.190)
+percap=c(0.229,1.125,3.889,1.143,2.125,1.000,1.882,
+		0.320,2.785,0.278,9.187,0.316,0.986,3.208,3.973,
+		0.254,1.130,1.094,6.566,0.570,1.790,0.080,0.552,1.190)
 
-females=c(175,40,45,175,200,425,425,800,256,713,198,1819,575,567,1819,852,216,244,267,1753,999,1788,143,79)
+females=c(175,40,45,175,200,425,425,800,256,713,
+		  198,1819,575,567,1819,852,216,244,267,
+		  1753,999,1788,143,79)
 
 normReg = function(par) {
           y.pred = par[1] + par[2]*females
           -sum(dnorm(log(percap),mean=y.pred,sd=sqrt(par[3]),log=T)) }
 
-mlest=optim(par=c(0,1/100,1),normReg) #par argument is the starting search values for par[1:3] 
+mlest=optim(par=c(0,1/100,1),normReg) 
+#par argument is the starting search values for par[1:3] 
 ```
 	> mlest$par[1:2]
 	[1]  0.5244783529 -0.0007595998
@@ -161,27 +169,34 @@ Logistic model: $log(N_{t+1}/N_t)=r(1-N_t/K)$
 Theta logistic model: $log(N_{t+1}/N_t)=r(1-(N_t/K)^\theta)$
 
 ``` R
-percap=c(0.229,1.125, 3.889,1.143,2.125, 1.000,1.882,0.320,2.785, 0.278,9.187,0.316,0.986,3.208,3.973,0.254,1.130,1.094,6.566, 0.570, 1.790,0.080,0.552,1.190)
+percap=c(0.229,1.125, 3.889,1.143,2.125, 1.000,1.882,0.320,2.785,
+		 0.278,9.187,0.316,0.986,3.208,3.973,0.254,1.130,1.094,
+		 6.566, 0.570, 1.790,0.080,0.552,1.190)
 
-females=c(175,40,45,175,200,425,425,800,256,713,198,1819,575,567,1819,852,  216,244,267,1753,999,1788,143,79)
+females=c(175,40,45,175,200,425,425,800,256,713,198,1819,575,
+		  567,1819,852,  216,244,267,1753,999,1788,143,79)
 
 # function for logistic model with normally distributed errors
 normReg = function(par) {
           y.pred = par[1] + par[2]*females
           -sum(dnorm(log(percap),mean=y.pred,sd=sqrt(par[3]),log=T)) }
 
-mle.normReg=optim(par=c(0,1/100,1),normReg) #par argument is the starting search values
+mle.normReg=optim(par=c(0,1/100,1),normReg) 
+#par argument is the starting search values
 
 # plot data and model predictions at mle
-plot(log(percap)~females, type="p", pch=16, lwd=1.5, bty="l", cex.lab=1.2,
+plot(log(percap)~females, type="p", pch=16, lwd=1.5, bty="l", 
+	 cex.lab=1.2,
      ylab=expression(ln~lambda),las=1,
      xlab="number of females")
 abline(a=mle.normReg$par[1], b=mle.normReg$par[2],col="red")
 
 # function for density independent model
 normDI = function(par) {
-          -sum(dnorm(log(percap),mean=mean(log(percap)),sd=sqrt(par[2]),log=T)) }
-mle.normDI=optim(par=c(1/100,1),normC) #par argument is the starting search values 
+          -sum(dnorm(log(percap),mean=mean(log(percap)),
+					 sd=sqrt(par[2]),log=T)) }
+mle.normDI=optim(par=c(1/100,1),normC) 
+#par argument is the starting search values 
 
 # plot predictions
 abline(h=mle.normDI$par[1],lwd=1.5 )
@@ -190,7 +205,8 @@ abline(h=mle.normDI$par[1],lwd=1.5 )
 normTh = function(par) {
           y.pred = par[1] + par[2]*(females)^par[4]
           -sum(dnorm(log(percap),mean=y.pred,sd=sqrt(par[3]),log=T)) }
-mle.normTh=optim(par=c(0,1/100,1,1),normTh) #par argument is the starting search values 
+mle.normTh=optim(par=c(0,1/100,1,1),normTh) 
+#par argument is the starting search values 
 
 # plot predictions and legend
 curve(mle.normTh$par[1]+mle.normTh$par[2]*(x)^mle.normTh$par[4], from=0, 
@@ -215,7 +231,7 @@ Table: Negative log-likelihood values for three candidate population models appl
 | logistic       | 3                    | 35.225    | 
 | theta-logistic | 4                    | 35.174    | 
 
-So perhaps we should select the theta-logistic model? After all it **does** have the greatest likelihood. However, there is another point to consider. The theta-logistic model has four parameters (r, k, $\theta\$, and $\sigma\$, the variance of the normal distribution of errors), while the logistic model has 3.  We note that if a model has n data points and n parameters (one for each data point), then the residual variance will be ZERO. Would a model with n parameters then be a better model, since it explains all the variance?
+So perhaps we should select the theta-logistic model? After all it **does** have the greatest likelihood. However, there is another point to consider. The theta-logistic model has four parameters (r, k, $\theta$, and $\sigma$, the variance of the normal distribution of errors), while the logistic model has 3.  We note that if a model has n data points and n parameters (one for each data point), then the residual variance will be ZERO. Would a model with n parameters then be a better model, since it explains all the variance?
 
 More generally, is a model with more parameters, functions, entities, etc. more likely to be “true”? Where we use the word "true" as more explanatory, accurate, predictive, representative of reality?
 
